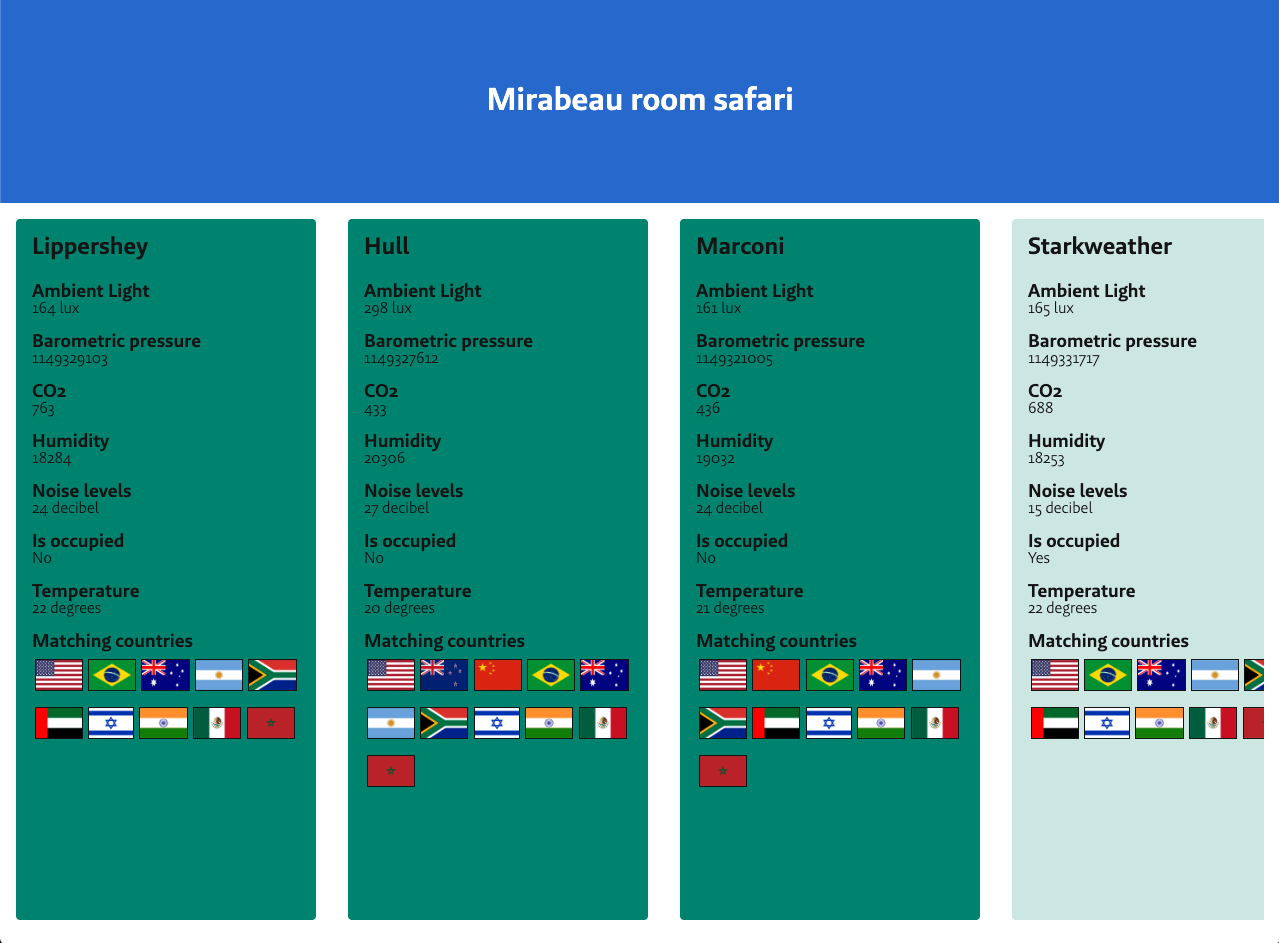
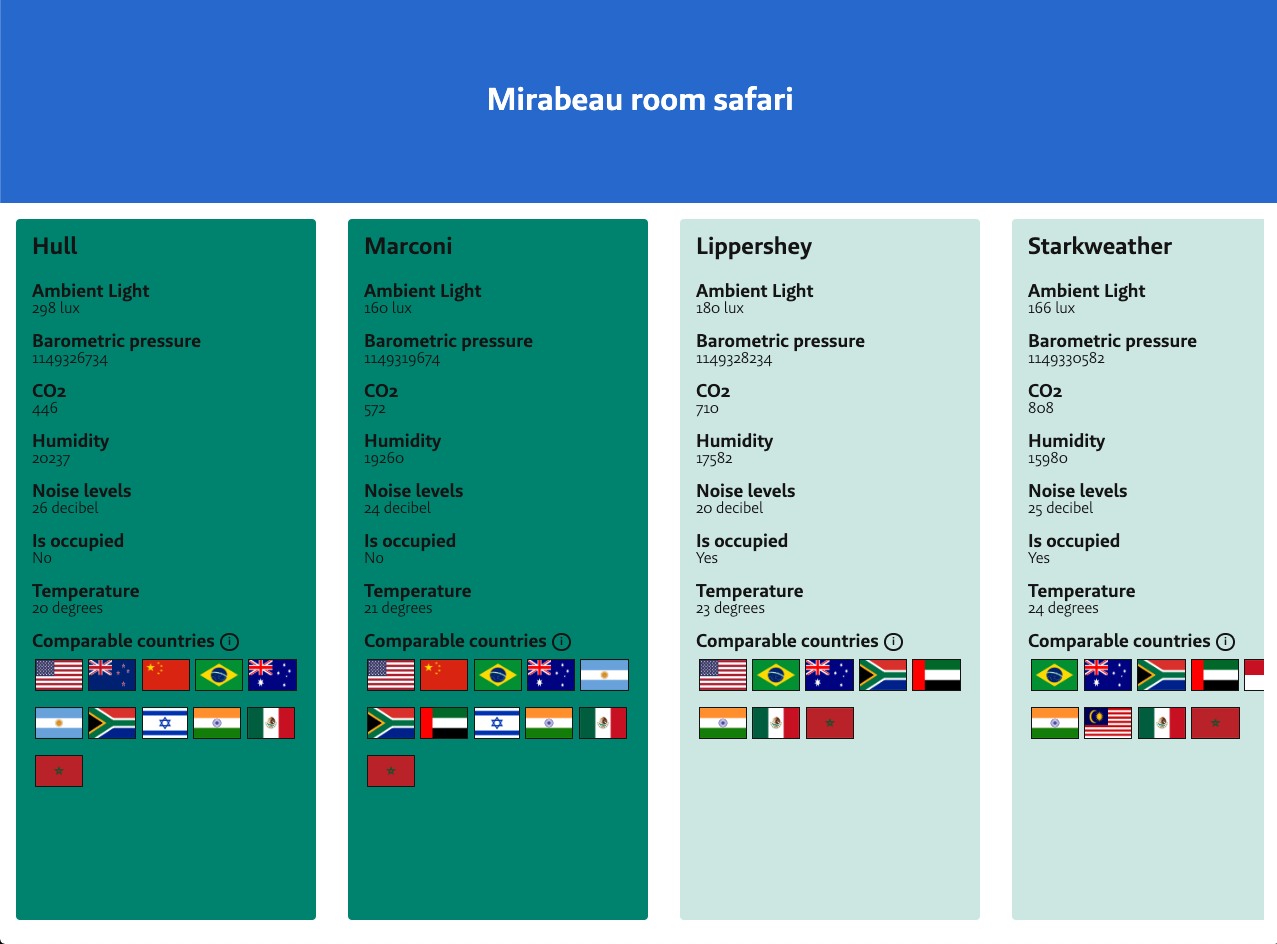
feat(master): add better stlyling

diff --git a/server/public/css/index.css b/server/public/css/index.css
@@ -1,1 +1,1 @@
-@font-face{font-family:'Brando Sans Text';src:url(/assets/fonts/BrandoSans-Text.eot);src:local('Brando Sans Text'),local('BrandoSans-Text'),url(/assets/fonts/BrandoSans-Text.eot?#iefix) format('embedded-opentype'),url(/assets/fonts/BrandoSans-Text.woff2) format('woff2'),url(/assets/fonts/BrandoSans-Text.woff) format('woff'),url(/assets/fonts/BrandoSans-Text.ttf) format('truetype'),url(/assets/fonts/BrandoSans-Text.svg#BrandoSans-Text) format('svg');font-weight:500;font-style:normal;font-display:swap}@font-face{font-family:'Brando Sans';src:url(/assets/fonts/BrandoSans-SemiBold.eot);src:local('Brando Sans SemiBold'),local('BrandoSans-SemiBold'),url(/assets/fonts/BrandoSans-SemiBold.eot?#iefix) format('embedded-opentype'),url(/assets/fonts/BrandoSans-SemiBold.woff2) format('woff2'),url(/assets/fonts/BrandoSans-SemiBold.woff) format('woff'),url(/assets/fonts/BrandoSans-SemiBold.ttf) format('truetype'),url(/assets/fonts/BrandoSans-SemiBold.svg#BrandoSans-SemiBold) format('svg');font-weight:600;font-style:normal;font-display:swap}@font-face{font-family:'Brando Sans';src:url(/assets/fonts/BrandoSans-Light.eot);src:local('Brando Sans Light'),local('BrandoSans-Light'),url(/assets/fonts/BrandoSans-Light.eot?#iefix) format('embedded-opentype'),url(/assets/fonts/BrandoSans-Light.woff2) format('woff2'),url(/assets/fonts/BrandoSans-Light.woff) format('woff'),url(/assets/fonts/BrandoSans-Light.ttf) format('truetype'),url(/assets/fonts/BrandoSans-Light.svg#BrandoSans-Light) format('svg');font-weight:300;font-style:normal;font-display:swap}*{margin:0;font-family:inherit;line-height:inherit;padding:0;color:inherit;box-sizing:inherit}::after,::before{box-sizing:inherit}audio,canvas,iframe,img,label,meter,progress,svg,video{display:block}button{font-size:inherit;cursor:pointer;background-color:transparent}table{border-collapse:collapse;border-spacing:0}ol,ul{list-style:none}blockquote,q{quotes:none}blockquote::after,blockquote::before,q::after,q::before{content:'';content:none}html{box-sizing:border-box}body,html{min-height:100vh}body{display:flex;overflow-x:hidden;line-height:1;color:#2b2b2b;font-family:'Brando Sans','Lucida Sans','Lucida Sans Regular','Lucida Grande','Lucida Sans Unicode',Geneva,Verdana,sans-serif;font-weight:400}body main{padding:1em;display:flex;flex-direction:row;justify-content:center;flex-wrap:wrap;width:100%}.PageHeader{width:100vw;background-color:#2c73d2;display:flex;padding:2em 0;flex-direction:row;align-items:center;justify-content:center;flex-wrap:wrap;color:#fff;transition:.2s ease color;line-height:1;margin:-1em -1em 0}.PageHeader>.PageTitle{display:inline-block;text-decoration:none}.PageHeader>.PageTitle:focus,.PageHeader>.PageTitle:hover{color:rgba(255,255,255,.9)}.PageHeader>.PageTitle:active{color:rgba(255,255,255,.7)}.PageHeader>.PageSubTitle{margin-left:.5em;text-align:baseline}.PageHeader>.PageSubTitle::before{content:'\203A';margin-right:.5em;display:inline-block;vertical-align:bottom}.RoomList{display:flex;flex-direction:row;max-width:90%;max-width:98vw;padding-bottom:.5em;padding-top:.5em;max-width:calc(100vw - 2em);overflow-x:scroll;margin-top:.5em}.RoomListItem{width:20%;min-width:300px;background-color:#008e79;color:#141414;transition:all ease .2s;border-radius:4px;text-decoration:none;padding:1em;overflow:hidden}.RoomListItem:not(.RoomListItem--is-occupied):focus,.RoomListItem:not(.RoomListItem--is-occupied):hover{box-shadow:0 5px 10px 0 rgba(0,0,0,.75)}.RoomListItem:not(.RoomListItem--is-occupied):active{box-shadow:0 5px 10px 0 rgba(0,0,0,1)}.RoomListItem--is-occupied{background-color:rgba(0,142,121,.2)}.RoomListItem__title{margin-bottom:1em}.RoomListItem+.RoomListItem{margin-left:2em}.RoomListItem__data+.RoomListItem__data{margin-top:1em}.MeasurementsList__title{margin-top:.5em;font-weight:700}.MeasurementsSection{flex:1}.CountriesSection__title{max-width:20em;max-width:45ch;margin:0 auto}.CountriesSection{flex:4}.CountriesSection,.MeasurementsSection{margin-top:1em;min-width:300px}.CountriesSectionList{display:flex;flex-direction:row;flex-wrap:wrap;justify-content:center;margin-top:1em}.CountriesSectionListItem{margin:1em;background-color:#845ec2;background:radial-gradient(#2c73d2 0,#845ec2 100%);border-radius:4px;overflow:hidden;transition:box-shadow ease .2s}.CountriesSectionListItem:focus-within,.CountriesSectionListItem:hover{box-shadow:0 5px 10px 0 rgba(0,0,0,.75)}.CountriesSectionListItem:active{box-shadow:0 5px 10px 0 rgba(0,0,0,1)}.OpenModalButton{padding:1em;color:#fff;display:block;height:100%;width:100%;text-decoration:none}.CountriesSectionListItem__image{margin-bottom:1em;max-width:200px;border-radius:inherit}.CountriesSectionListItem__content{margin-top:.5em}.CountriesSectionModal{text-align:center}.CountriesSectionModal__image{max-width:45%;border-radius:4px;margin:1em auto}.Modal{position:fixed;background-color:rgba(0,0,0,.5);top:0;right:0;bottom:0;left:0;z-index:999;opacity:0;pointer-events:none;transition:opacity .3s ease}.Modal:target{opacity:1;pointer-events:auto}.Modal__close-button{color:#fff;opacity:.5;pointer-events:none;text-decoration:none;transition:.2s ease opacity}.Modal:target .Modal__close-button{pointer-events:auto}.Modal:target .Modal__close-button:focus,.Modal:target .Modal__close-button:hover{opacity:1;text-decoration:underline}.Modal__header{display:flex;flex-direction:row;align-items:center;justify-content:flex-end;border-bottom:1px solid #fff;padding:1em 2em}.Modal__window{background-color:#845ec2;background:radial-gradient(#2c73d2 0,#845ec2 100%);color:#fff;left:50%;position:absolute;border-radius:4px;top:50%;-webkit-transform:translate(-50%,-50%);transform:translate(-50%,-50%);width:40%;min-width:300px}.Modal__content{padding:2em;min-height:250px;max-height:80%;max-height:80vh;overflow-y:scroll}.CountriesSectionModal svg:first-child{width:3em;position:absolute;bottom:1.5em;left:0}.CountriesSectionModal svg:nth-child(2){max-width:45%!important;height:auto!important;margin:1em auto}.CountriesSectionModal svg:nth-child(2) path{fill:#fff}.Row{display:flex;flex-direction:row;align-items:center;justify-content:center}.Row--relative{position:relative}.CountryFlagList{display:flex;flex-direction:row;align-items:center;flex-wrap:wrap}.CountryFlagList__flag{border:1px solid #141414;max-width:18%;height:2em;margin:.5em 1%}
+@font-face{font-family:'Brando Sans Text';src:url(/assets/fonts/BrandoSans-Text.eot);src:local('Brando Sans Text'),local('BrandoSans-Text'),url(/assets/fonts/BrandoSans-Text.eot?#iefix) format('embedded-opentype'),url(/assets/fonts/BrandoSans-Text.woff2) format('woff2'),url(/assets/fonts/BrandoSans-Text.woff) format('woff'),url(/assets/fonts/BrandoSans-Text.ttf) format('truetype'),url(/assets/fonts/BrandoSans-Text.svg#BrandoSans-Text) format('svg');font-weight:500;font-style:normal;font-display:swap}@font-face{font-family:'Brando Sans';src:url(/assets/fonts/BrandoSans-SemiBold.eot);src:local('Brando Sans SemiBold'),local('BrandoSans-SemiBold'),url(/assets/fonts/BrandoSans-SemiBold.eot?#iefix) format('embedded-opentype'),url(/assets/fonts/BrandoSans-SemiBold.woff2) format('woff2'),url(/assets/fonts/BrandoSans-SemiBold.woff) format('woff'),url(/assets/fonts/BrandoSans-SemiBold.ttf) format('truetype'),url(/assets/fonts/BrandoSans-SemiBold.svg#BrandoSans-SemiBold) format('svg');font-weight:600;font-style:normal;font-display:swap}@font-face{font-family:'Brando Sans';src:url(/assets/fonts/BrandoSans-Light.eot);src:local('Brando Sans Light'),local('BrandoSans-Light'),url(/assets/fonts/BrandoSans-Light.eot?#iefix) format('embedded-opentype'),url(/assets/fonts/BrandoSans-Light.woff2) format('woff2'),url(/assets/fonts/BrandoSans-Light.woff) format('woff'),url(/assets/fonts/BrandoSans-Light.ttf) format('truetype'),url(/assets/fonts/BrandoSans-Light.svg#BrandoSans-Light) format('svg');font-weight:300;font-style:normal;font-display:swap}*{margin:0;font-family:inherit;line-height:inherit;padding:0;color:inherit;box-sizing:inherit}::after,::before{box-sizing:inherit}audio,canvas,iframe,img,label,meter,progress,svg,video{display:block}button{font-size:inherit;cursor:pointer;background-color:transparent}table{border-collapse:collapse;border-spacing:0}ol,ul{list-style:none}blockquote,q{quotes:none}blockquote::after,blockquote::before,q::after,q::before{content:'';content:none}html{box-sizing:border-box}body,html{min-height:100vh}body{display:flex;overflow-x:hidden;line-height:1;color:#2b2b2b;font-family:'Brando Sans','Lucida Sans','Lucida Sans Regular','Lucida Grande','Lucida Sans Unicode',Geneva,Verdana,sans-serif;font-weight:400}body main{padding:1em;display:flex;flex-direction:row;justify-content:center;flex-wrap:wrap;width:100%}.PageHeader{width:100vw;background-color:#2c73d2;display:flex;padding:2em 0;flex-direction:row;align-items:center;justify-content:center;flex-wrap:wrap;color:#fff;transition:.2s ease color;line-height:1;margin:-1em -1em 0}.PageHeader>.PageTitle{display:inline-block;text-decoration:none}.PageHeader>.PageTitle:focus,.PageHeader>.PageTitle:hover{color:rgba(255,255,255,.9)}.PageHeader>.PageTitle:active{color:rgba(255,255,255,.7)}.PageHeader>.PageSubTitle{margin-left:.5em;text-align:baseline}.PageHeader>.PageSubTitle::before{content:'\203A';margin-right:.5em;display:inline-block;vertical-align:bottom}.RoomList{display:flex;flex-direction:row;max-width:90%;max-width:98vw;padding-bottom:.5em;padding-top:.5em;max-width:calc(100vw - 2em);overflow-x:scroll;margin-top:.5em}.RoomListItem{width:20%;min-width:300px;background-color:#008e79;color:#141414;transition:all ease .2s;border-radius:4px;text-decoration:none;padding:1em;overflow:hidden}.RoomListItem__subtitle{transition:.2s ease opacity;display:flex;flex-direction:row;align-items:center}.RoomListItem__subtitle:hover{opacity:.8}.RoomListItem__subtitle::after{content:'i';border-radius:50%;font-size:60%;margin-left:.5em;border:2px solid #141414;padding:.12em .5em;text-align:center;display:inline-block}.RoomListItem:not(.RoomListItem--is-occupied):focus,.RoomListItem:not(.RoomListItem--is-occupied):hover{box-shadow:0 5px 10px 0 rgba(0,0,0,.75)}.RoomListItem:not(.RoomListItem--is-occupied):active{box-shadow:0 5px 10px 0 rgba(0,0,0,1)}.RoomListItem--is-occupied{background-color:rgba(0,142,121,.2)}.RoomListItem__title{margin-bottom:1em}.RoomListItem+.RoomListItem{margin-left:2em}.RoomListItem__data+.RoomListItem__data{margin-top:1em}.MeasurementsList__title{margin-top:.5em;font-weight:700}.MeasurementsSection{flex:1}.CountriesSection__title{max-width:20em;max-width:45ch;margin:0 auto}.CountriesSection{flex:4}.CountriesSection,.MeasurementsSection{margin-top:1em;min-width:300px}.CountriesSectionList{display:flex;flex-direction:row;flex-wrap:wrap;justify-content:center;margin-top:1em}.CountriesSectionListItem{margin:1em;background-color:#845ec2;background:radial-gradient(#2c73d2 0,#845ec2 100%);border-radius:4px;overflow:hidden;transition:box-shadow ease .2s}.CountriesSectionListItem:focus-within,.CountriesSectionListItem:hover{box-shadow:0 5px 10px 0 rgba(0,0,0,.75)}.CountriesSectionListItem:active{box-shadow:0 5px 10px 0 rgba(0,0,0,1)}.OpenModalButton{padding:1em;color:#fff;display:block;height:100%;width:100%;text-decoration:none}.CountriesSectionListItem__image{margin-bottom:1em;max-width:200px;border-radius:inherit}.CountriesSectionListItem__content{margin-top:.5em}.CountriesSectionModal{text-align:center}.CountriesSectionModal__image{max-width:45%;border-radius:4px;margin:1em auto}.Modal{position:fixed;background-color:rgba(0,0,0,.5);top:0;right:0;bottom:0;left:0;z-index:999;opacity:0;pointer-events:none;transition:opacity .3s ease}.Modal:target{opacity:1;pointer-events:auto}.Modal__close-button{color:#fff;opacity:.5;pointer-events:none;text-decoration:none;transition:.2s ease opacity}.Modal:target .Modal__close-button{pointer-events:auto}.Modal:target .Modal__close-button:focus,.Modal:target .Modal__close-button:hover{opacity:1;text-decoration:underline}.Modal__header{display:flex;flex-direction:row;align-items:center;justify-content:flex-end;border-bottom:1px solid #fff;padding:1em 2em}.Modal__window{background-color:#845ec2;background:radial-gradient(#2c73d2 0,#845ec2 100%);color:#fff;left:50%;position:absolute;border-radius:4px;top:50%;-webkit-transform:translate(-50%,-50%);transform:translate(-50%,-50%);width:40%;min-width:300px}.Modal__content{padding:2em;min-height:250px;max-height:80%;max-height:80vh;overflow-y:scroll}.CountriesSectionModal svg:first-child{width:3em;position:absolute;bottom:1.5em;left:0}.CountriesSectionModal svg:nth-child(2){max-width:45%!important;height:auto!important;margin:1em auto}.CountriesSectionModal svg:nth-child(2) path{fill:#fff}.Row{display:flex;flex-direction:row;align-items:center;justify-content:center}.Row--relative{position:relative}.CountryFlagList{display:flex;flex-direction:row;align-items:center;flex-wrap:wrap}.CountryFlagList__flag{border:1px solid #141414;max-width:18%;height:2em;margin:.5em 1%}

diff --git a/client/css/index.css b/client/css/index.css
@@ -182,6 +182,28 @@ body main {
     overflow: hidden;
 }
 
+.RoomListItem__subtitle {
+    transition: .2s ease opacity;
+    display: flex;
+    flex-direction: row;
+    align-items: center;
+}
+
+.RoomListItem__subtitle:hover {
+    opacity: 0.8;
+}
+
+.RoomListItem__subtitle::after {
+    content: 'i';
+    border-radius: 50%;
+    font-size: 60%;
+    margin-left: .5em;
+    border: 2px solid #141414;
+    padding: .12em .5em;
+    text-align: center;
+    display: inline-block;
+}
+
 .RoomListItem:not(.RoomListItem--is-occupied):hover,
 .RoomListItem:not(.RoomListItem--is-occupied):focus {
     box-shadow: 0px 5px 10px 0px rgba(0, 0, 0, 0.75);
